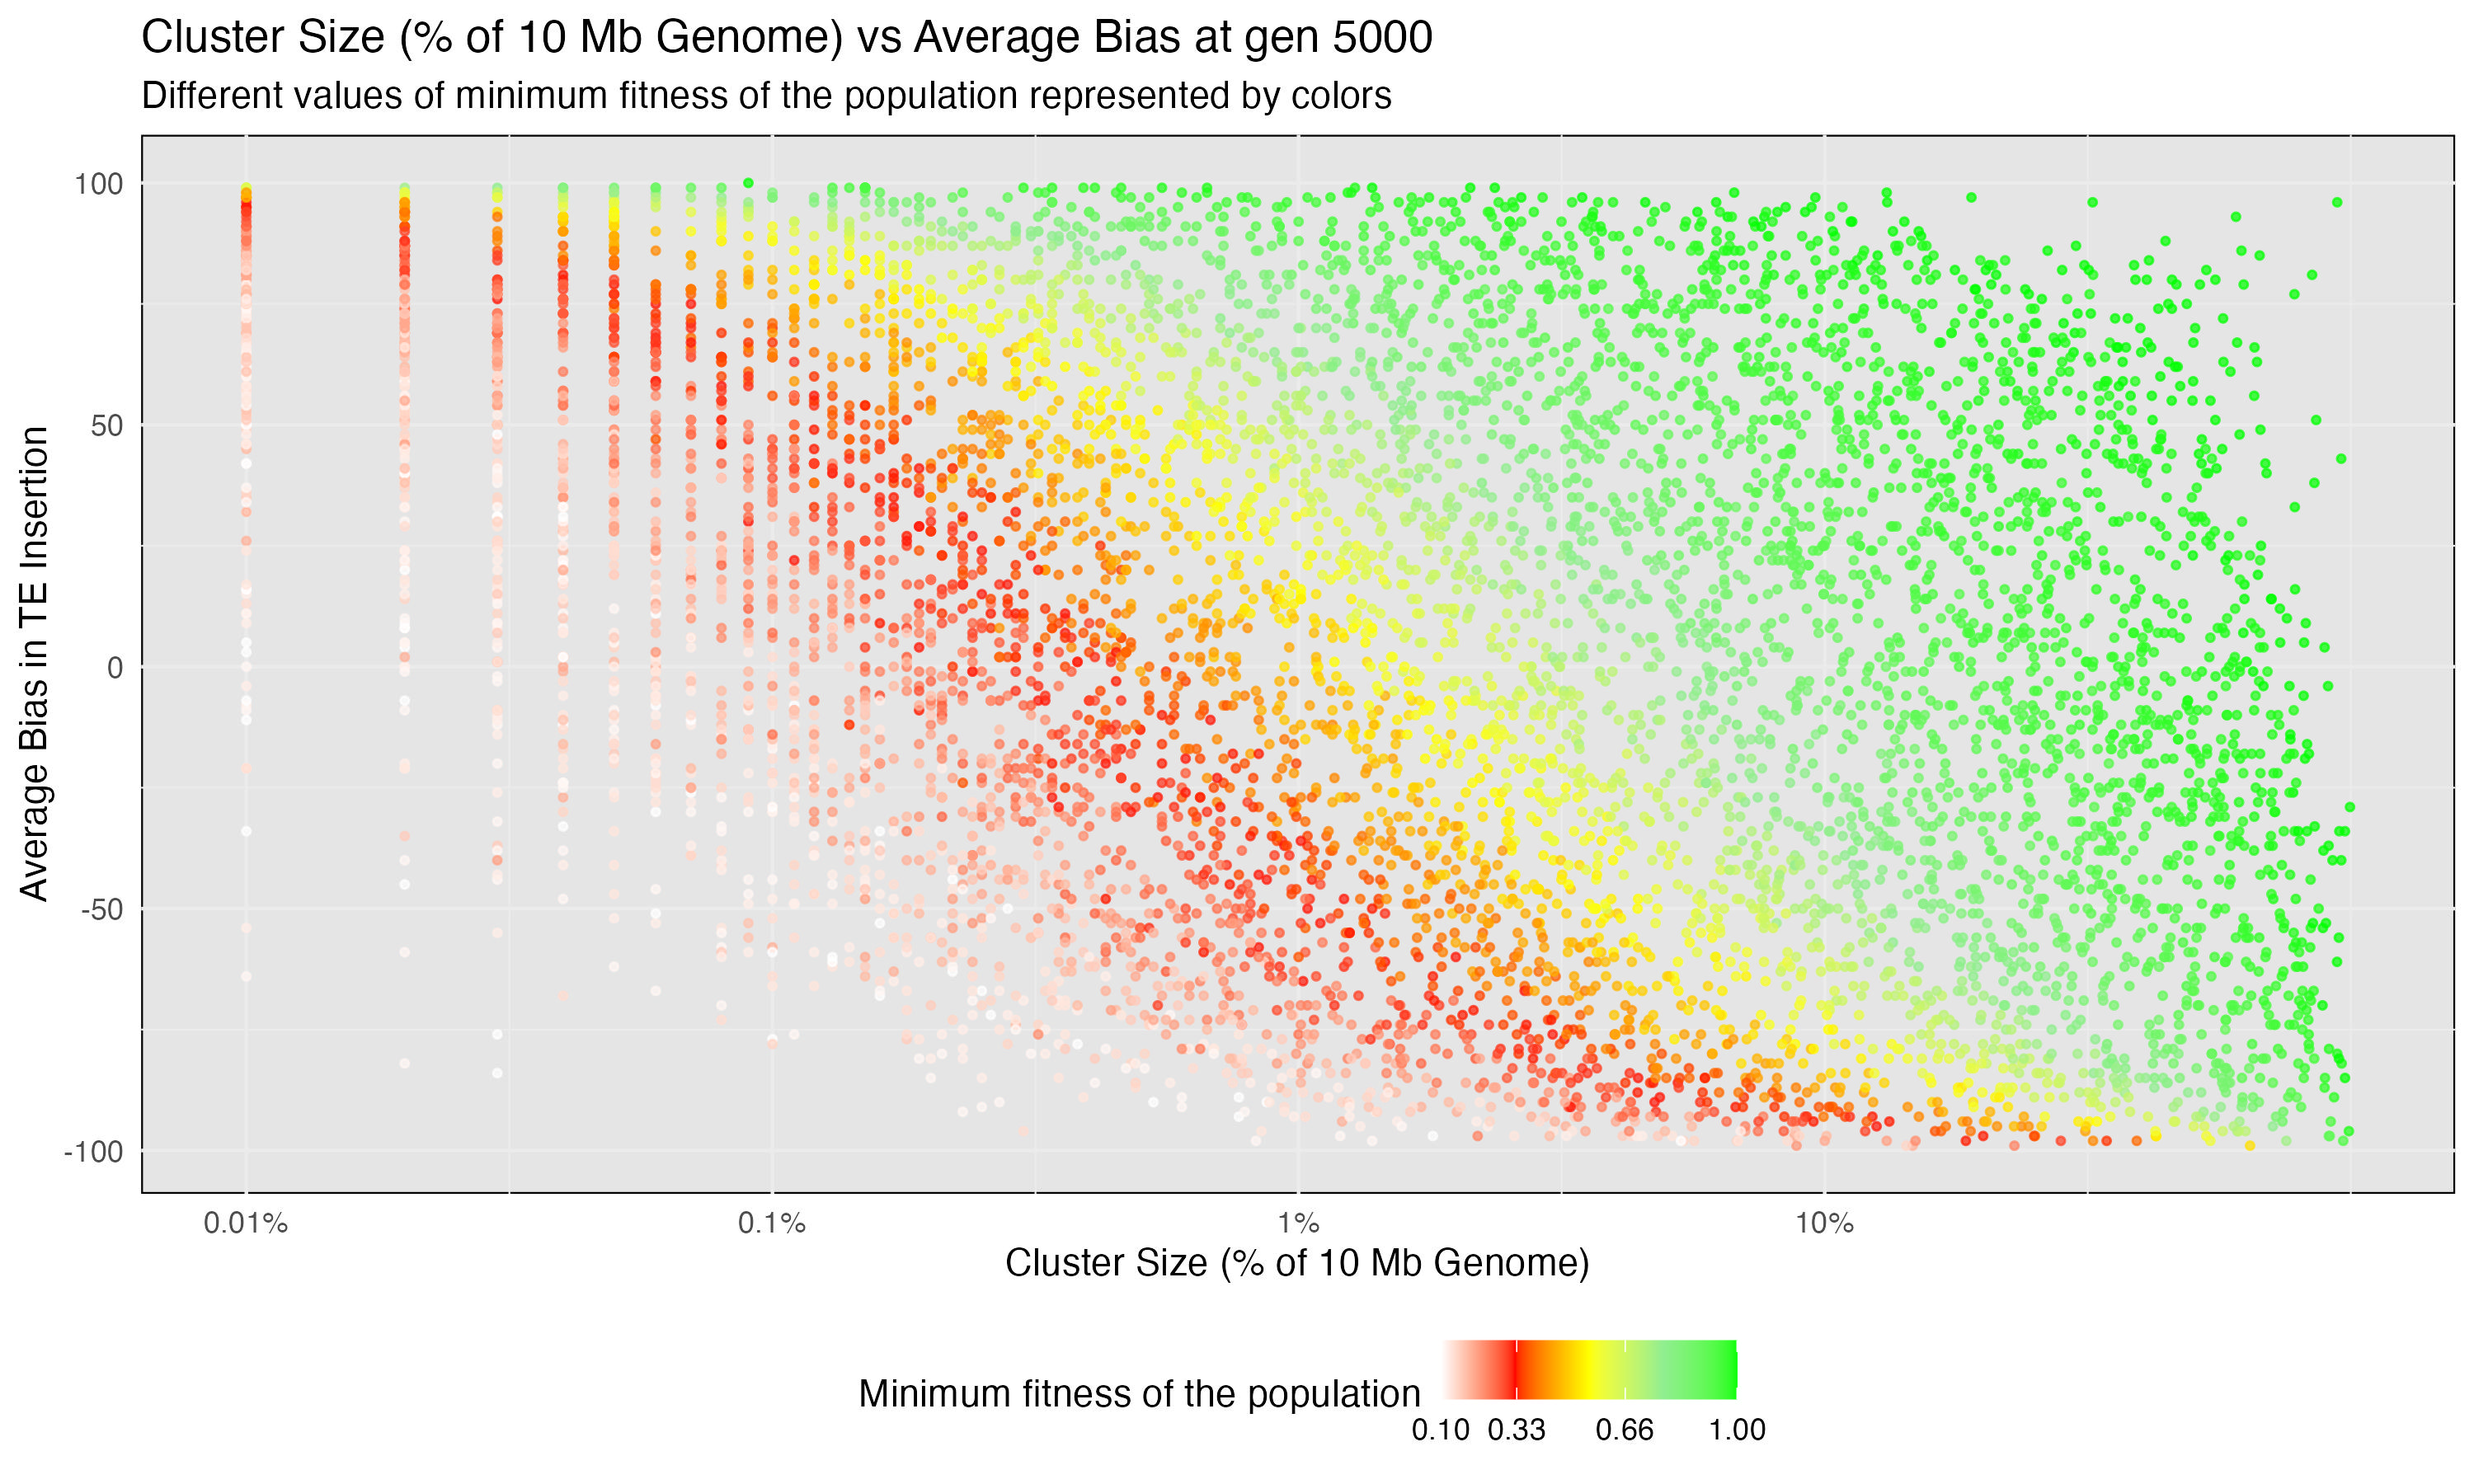
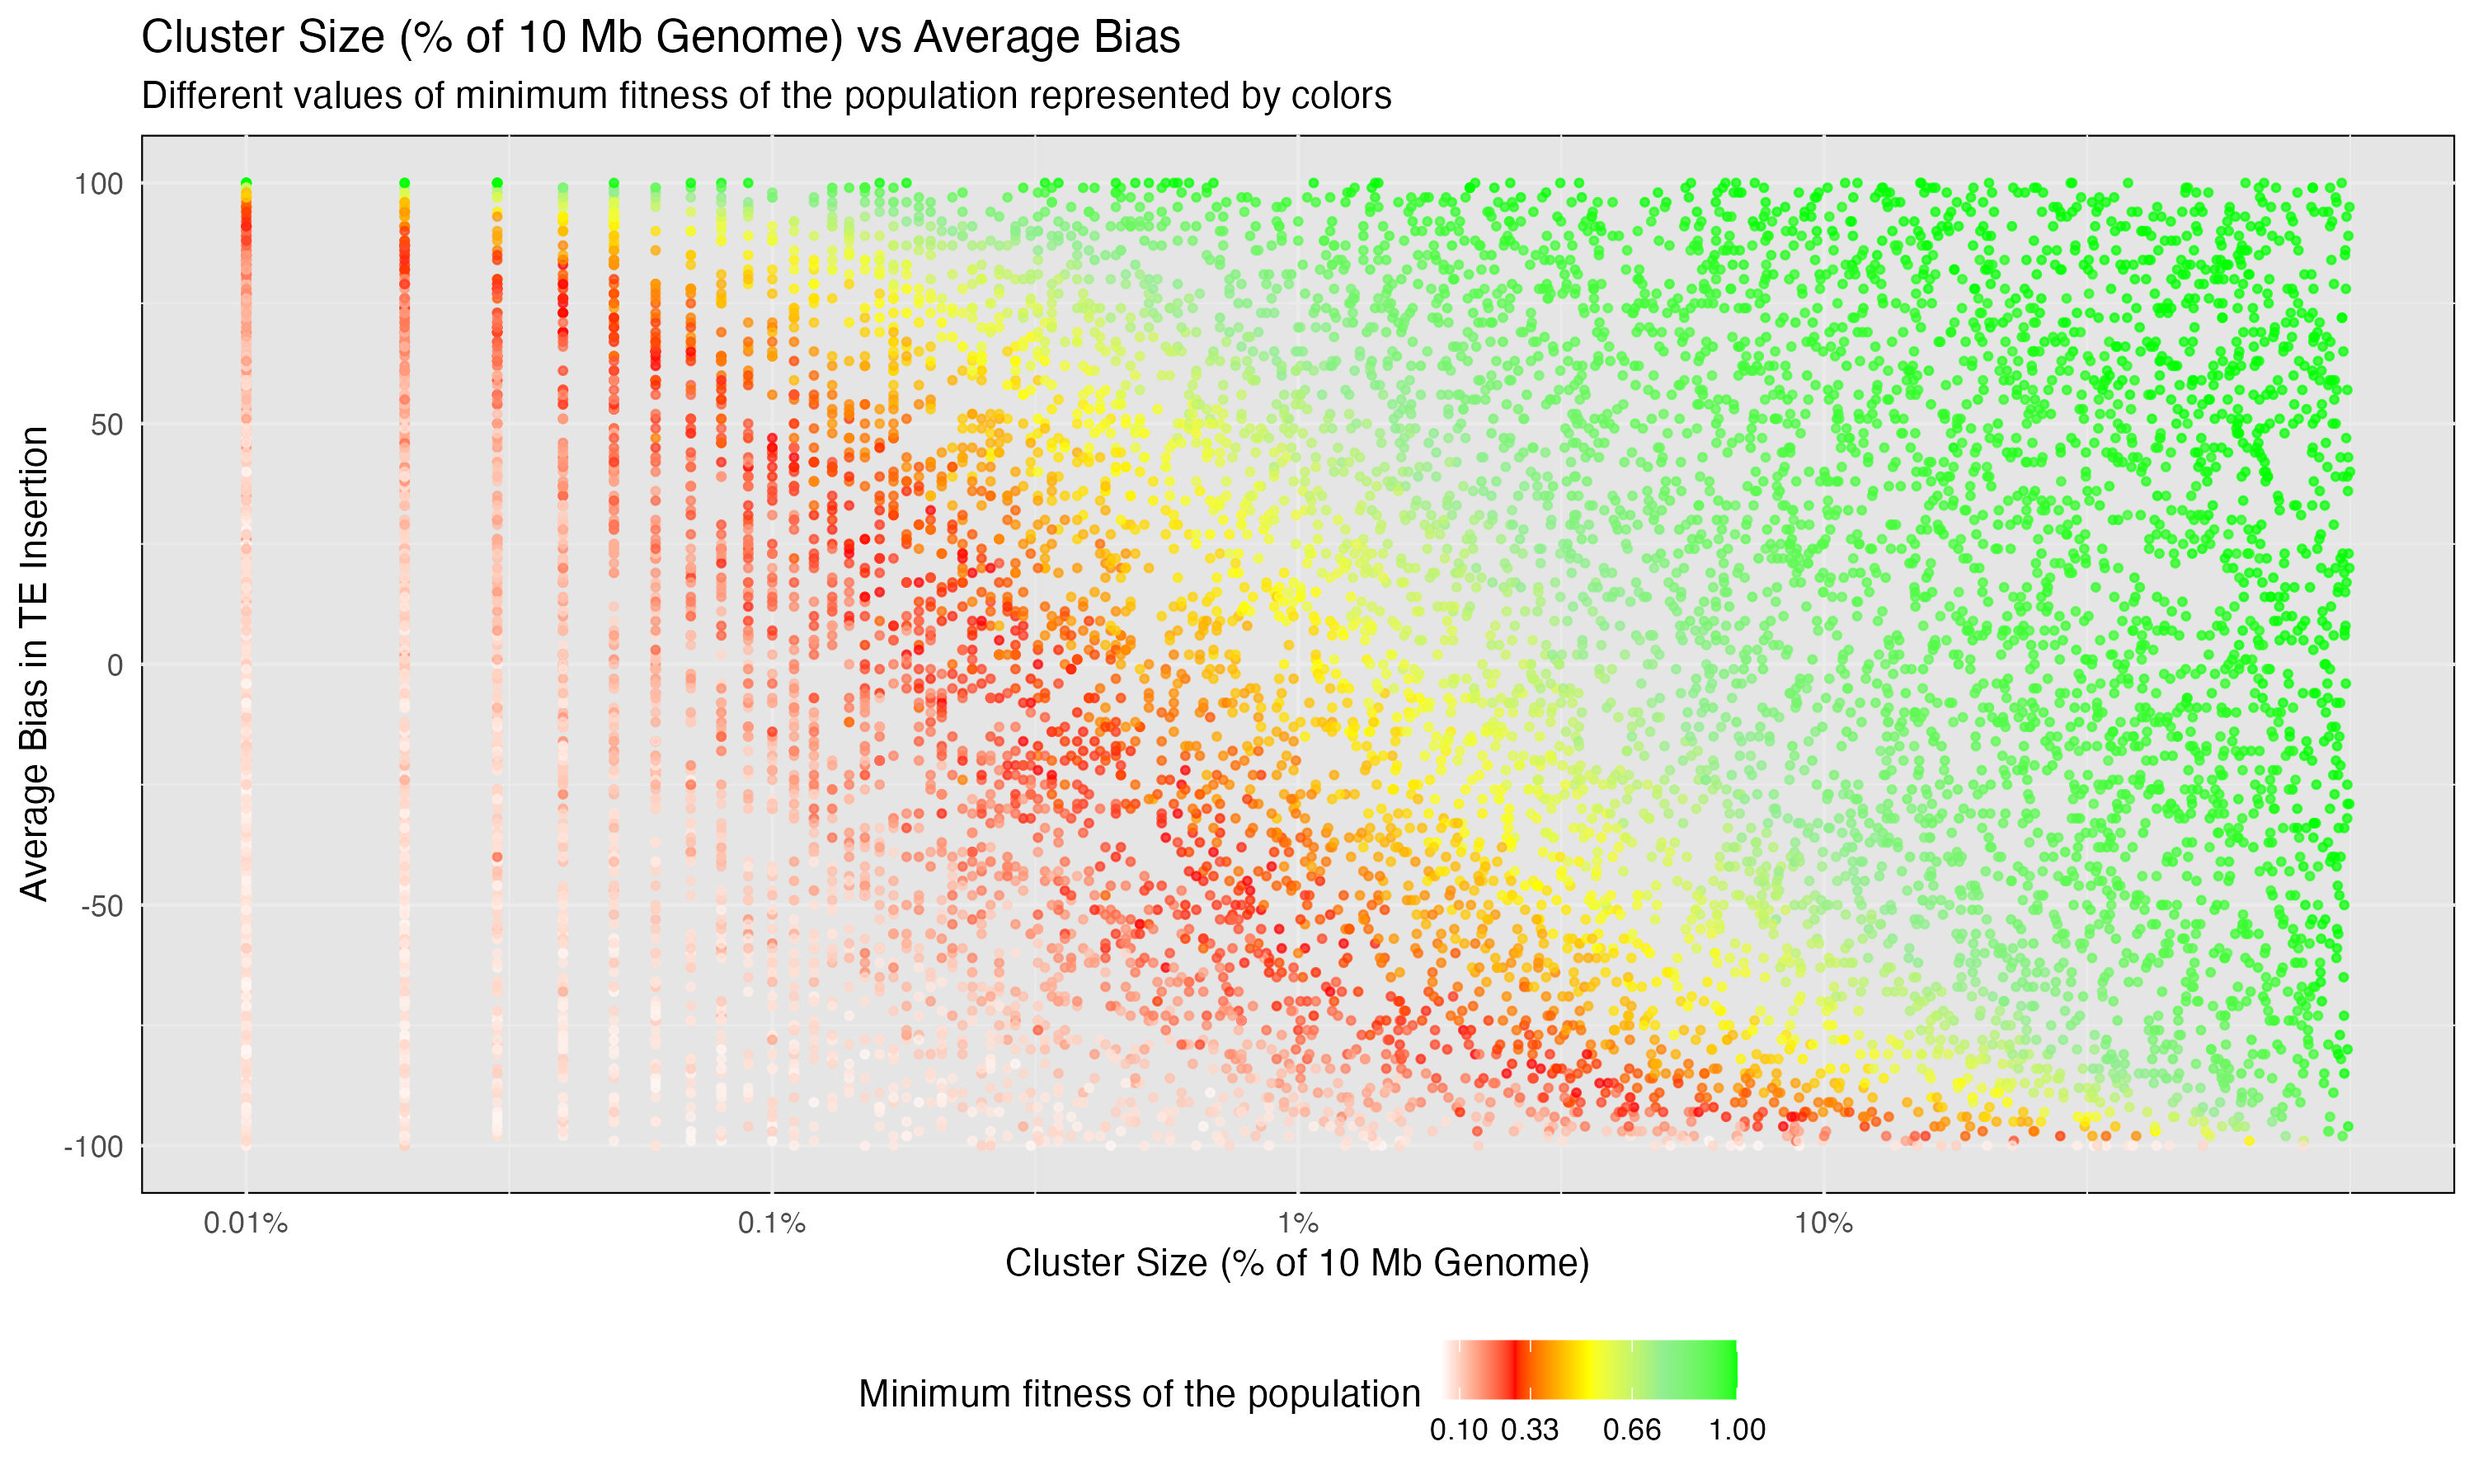
to be fixed
Need to color fail-w and fail-0. Running new sim with bp instead of kb.

diff --git a/Simulation-Results_Files/simulation_storm/minfit/sim_storm.py b/Simulation-Results_Files/simulation_storm/minfit/sim_storm.py
@@ -85,7 +85,7 @@ def get_filter():
 # Getting random cluter insertions values in the range of (3% to 97%)
 def get_rand_clusters(): 
     lower_limit = 0  # Lower bound
-    upper_limit = math.log10(1e+4)  # Upper bound, note the cluster size is in kb
+    upper_limit = math.log10(1e+7)  # Upper bound
     r = math.floor(10**random.uniform(lower_limit, upper_limit))
     return f"{r},{r},{r},{r},{r}"
 
@@ -101,7 +101,7 @@ def run_cluster_negsel(invade, count, output):
         tr = current_milli_time() + i
         sampleid_value = x.split(',')[0]
         command_basis = get_basis(invade)
-        command = f'{command_basis} --basepop "100({get_rand_bias()})" --cluster kb:{x} --replicate-offset {i} --seed {tr} '
+        command = f'{command_basis} --basepop "100({get_rand_bias()})" --cluster bp:{x} --replicate-offset {i} --seed {tr} '
         command += f'--sampleid {sampleid_value} {get_filter()} > {os.path.join(output, str(i))}.txt'
         commandlist.append(command)
     return commandlist
@@ -143,8 +143,8 @@ Silent mode: {args.silent}
 
 
 # This is the "main"
-submit_job_max_len(commandlist, max_processes=args.threads)
-
+#submit_job_max_len(commandlist, max_processes=args.threads)
+print(commandlist)
 
 # Cat 🐈 all the files together:
 with open(f"{args.output}/combined.txt", "wb") as outfile:

diff --git a/Simulation-Results_Files/simulation_storm/minfit/.ipynb_checkpoints/plot_rand-checkpoint.py b/Simulation-Results_Files/simulation_storm/minfit/.ipynb_checkpoints/plot_rand-checkpoint.py
@@ -1,0 +1,22 @@
+import matplotlib.pyplot as plt
+import math
+import random
+
+def get_rand_clusters():
+    lower_limit = 0  # Lower bound
+    upper_limit = math.log10(1e+4)  # Upper bound, note the cluster size is in kb
+    r = math.floor(10**random.uniform(lower_limit, upper_limit))
+    return f"{r},{r},{r},{r},{r}"
+
+# Generate data
+data = []
+for _ in range(1000):
+    clusters = get_rand_clusters().split(',')
+    data.extend([int(x) for x in clusters])
+
+# Plotting
+plt.hist(data, bins=50, edgecolor='black')
+plt.xlabel('Cluster Size (kb)')
+plt.ylabel('Frequency')
+plt.title('Distribution of Random Cluster Sizes')
+plt.show()

diff --git a/Simulation-Results_Files/simulation_storm/minfit/plot_rand.py b/Simulation-Results_Files/simulation_storm/minfit/plot_rand.py
@@ -1,0 +1,22 @@
+import matplotlib.pyplot as plt
+import math
+import random
+
+def get_rand_clusters():
+    lower_limit = 0  # Lower bound
+    upper_limit = math.log10(1e+4)  # Upper bound, note the cluster size is in kb
+    r = math.floor(10**random.uniform(lower_limit, upper_limit))
+    return f"{r},{r},{r},{r},{r}"
+
+# Generate data
+data = []
+for _ in range(1000):
+    clusters = get_rand_clusters().split(',')
+    data.extend([int(x) for x in clusters])
+
+# Plotting
+plt.hist(data, bins=50, edgecolor='black')
+plt.xlabel('Cluster Size (kb)')
+plt.ylabel('Frequency')
+plt.title('Distribution of Random Cluster Sizes')
+plt.show()

diff --git a/Simulation-Results_Files/simulation_storm/minfit/sim_storm_minm_fit.md b/Simulation-Results_Files/simulation_storm/minfit/sim_storm_minm_fit.md
@@ -1,20 +1,19 @@
 # Minimum Fitness
 Shashank Pritam
 
-- [<span class="toc-section-number">1</span>
+- [<span class="toc-section-number">0.1</span>
   Introduction](#introduction)
-  - [<span class="toc-section-number">1.1</span> Initial
+  - [<span class="toc-section-number">0.1.1</span> Initial
     conditions](#initial-conditions)
-- [<span class="toc-section-number">2</span> Materials &
+- [<span class="toc-section-number">0.2</span> Materials &
   Methods](#materials-methods)
-  - [<span class="toc-section-number">2.1</span> Commands for the
+  - [<span class="toc-section-number">0.2.1</span> Commands for the
     simulation](#commands-for-the-simulation)
-- [<span class="toc-section-number">3</span> Visualization in
+- [<span class="toc-section-number">0.3</span> Visualization in
   R](#visualization-in-r)
-  - [<span class="toc-section-number">3.1</span> Data
-    Loading](#data-loading)
-  - [<span class="toc-section-number">3.2</span> Plot](#plot)
-- [<span class="toc-section-number">4</span> Conclusion](#conclusion)
+- [<span class="toc-section-number">1</span> Plot](#plot)
+  - [<span class="toc-section-number">1.1</span>
+    Conclusion](#conclusion)
 
 ## Introduction
 
@@ -35,12 +34,11 @@ The simulations were generated using the code from:
 
 ## Visualization in R
 
-#### Setting the environment
-
 <details>
 <summary>Code</summary>
 
 ``` r
+# Setting the environment
 library(tidyverse)
 ```
 
@@ -63,86 +61,62 @@ library(tidyverse)
 ``` r
 library(ggplot2)
 theme_set(theme_bw())
-```
 
-</details>
-
-#### Data loading and parsing
-
-<details>
-<summary>Code</summary>
-
-``` r
-# Define and load DataFrame with column names
+# Data loading and parsing
 column_names <- c("rep", "gen", "popstat", "spacer_1", "fwte", "avw", "min_w", "avtes", "avpopfreq", "fixed", "spacer_2", "phase", "fwcli", "avcli", "fixcli", "spacer_3", "avbias", "3tot", "3cluster", "spacer_4", "sampleid")
-df <- read_delim('./23thAug23at110646PM/combined.txt', delim='\t', col_names = column_names)
-```
 
-</details>
+df <- read_delim('./23thAug23at110646PM/combined.txt', delim='\t', col_names = column_names, show_col_types = FALSE)
 
-    Rows: 20000 Columns: 22
-    ── Column specification ────────────────────────────────────────────────────────
-    Delimiter: "\t"
-    chr  (8): popstat, spacer_1, spacer_2, phase, spacer_3, 3tot, 3cluster, spac...
-    dbl (13): rep, gen, fwte, avw, min_w, avtes, avpopfreq, fixed, fwcli, avcli,...
-    lgl  (1): X22
 
-    ℹ Use `spec()` to retrieve the full column specification for this data.
-    ℹ Specify the column types or set `show_col_types = FALSE` to quiet this message.
-
-<details>
-<summary>Code</summary>
-
-``` r
-# Convert specific columns to numeric
 numeric_columns <- c("rep", "gen", "fwte", "avw", "min_w", "avtes", "avpopfreq", "fixed", "fwcli", "avcli", "fixcli", "avbias", "sampleid")
 df[numeric_columns] <- lapply(df[numeric_columns], as.numeric)
-```
 
-</details>
-
-### Data Loading
-
-<details>
-<summary>Code</summary>
-
-``` r
-# Define color gradient functions
-color.gradient <- function(x, colors=c("#D7191C","#FDAE61","#A6D96A","#1A9641"), colsteps=100) { colorRampPalette(colors) (colsteps) [ findInterval(x, seq(min(df$min_w),1.0, length.out=colsteps)) ] }
-
-# Assign colors based on the 'min_w' column
-df$col <- color.gradient(df$min_w)
-df[df$popstat == "fail-0",]$col <- "grey"
-df$col <- as.factor(df$col)
-
-# Create and plot the ggplot object
-# Subset the data for gen 5000
-df_gen_5000 <- df[df$gen == 5000,]
-```
-
-</details>
-
-### Plot
-
-<details>
-<summary>Code</summary>
-
-``` r
 # Convert sampleid to % of the genome (given that genome size is 10,000 kb)
-df_gen_5000$sampleid_percent = (df_gen_5000$sampleid / 10000) * 100
+df$sampleid_percent = (df$sampleid / 10000) * 100
 
+# Data Preparation and Plotting
+df_gen_not0 <- df %>% filter(gen != 0)
+df_gen_0 <- df %>% filter(gen == 0)
+
+
+# Join and fill NaN
+df_final <- left_join(df_gen_not0, df_gen_0, by = "rep", suffix = c("", "_from_gen0"))
+
+# Step 2: Fill missing NaN values in the necessary columns
+columns_to_fill <- c("popstat", "avbias", "sampleid", "min_w")
+for (col in columns_to_fill) {
+    df_final[[col]] <- ifelse(is.na(df_final[[col]]), df_final[[paste(col, "_from_gen0", sep = "")]], df_final[[col]])
+}
+
+# Keep only the necessary columns
+df_final <- select(df_final, rep, popstat, avbias, sampleid, min_w)
+
+# Calculate sampleid_percent
+df_final$sampleid_percent <- (df_final$sampleid / 10000) * 100
+```
+
+</details>
+
+# Plot
+
+<details>
+<summary>Code</summary>
+
+``` r
 # Custom color breaks and colors for fitness
 breaks = c(0.01, 0.1, 0.33, 0.66, 1)
 colors = c("white", "red", "yellow", "lightgreen", "green")
 
 # Update ggplot
-g_avbias_cluster_size <- ggplot(df_gen_5000, aes(x = sampleid_percent, y = avbias, color = min_w)) +
+g_avbias_cluster_size <- ggplot(df_final, aes(x = sampleid_percent, y = avbias, color = min_w)) +
   geom_point(alpha = 0.7, size = 0.8) +
   ylab("Average Bias in TE Insertion") +
   xlab("Cluster Size (% of 10 Mb Genome)") +
   labs(
-    title = "Cluster Size (% of 10 Mb Genome) vs Average Bias at gen 5000",
-    subtitle = "Different values of minimum fitness of the population represented by colors"
+    title = "Cluster Size (% of 10 Mb Genome) vs Average Bias",
+    subtitle = "Different values of minimum fitness of the population represented by colors",
+    x = "Cluster Size (% of 10 Mb Genome)",
+    y = "Average Bias in TE Insertion"
   ) +
   scale_color_gradientn(
     name = "Minimum fitness of the population",
@@ -159,23 +133,22 @@ g_avbias_cluster_size <- ggplot(df_gen_5000, aes(x = sampleid_percent, y = avbia
     panel.background = element_rect(fill = "grey90")
   )
 
-# Save the plot
-ggsave(filename = "../../../images/minimum_fitness.jpg", plot = g_avbias_cluster_size, width = 10, height = 6)
-
-# To display the saved image in R (optional)
-# You'll need to load the grid package
-library(grid)
-
-# Read the saved plot into a grob
-plot_grob <- ggplotGrob(g_avbias_cluster_size)
-
-# Draw the grob
-grid.draw(plot_grob)
+g_avbias_cluster_size
 ```
 
 </details>
 
-![](sim_storm_minm_fit_files/figure-commonmark/unnamed-chunk-4-1.png)
+![](sim_storm_minm_fit_files/figure-commonmark/unnamed-chunk-2-1.png)
+
+<details>
+<summary>Code</summary>
+
+``` r
+# Save the plot
+ggsave(filename = "../../../images/minimum_fitness.jpg", plot = g_avbias_cluster_size, width = 10, height = 6)
+```
+
+</details>
 
 ## Conclusion
 
